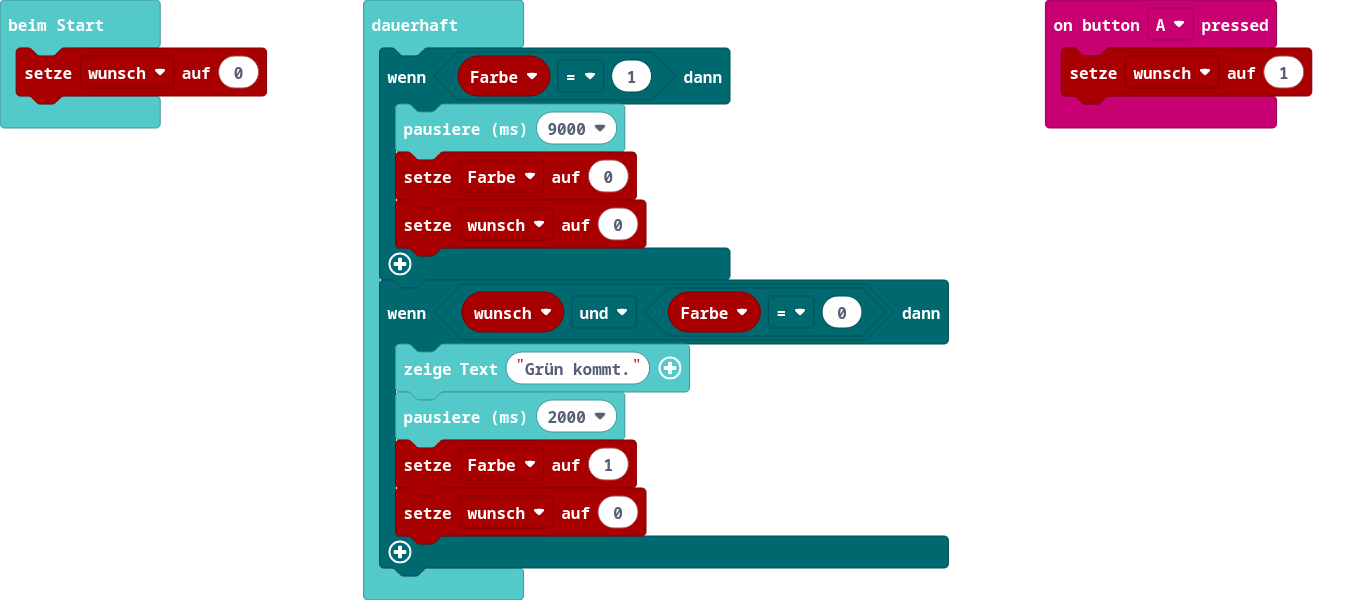
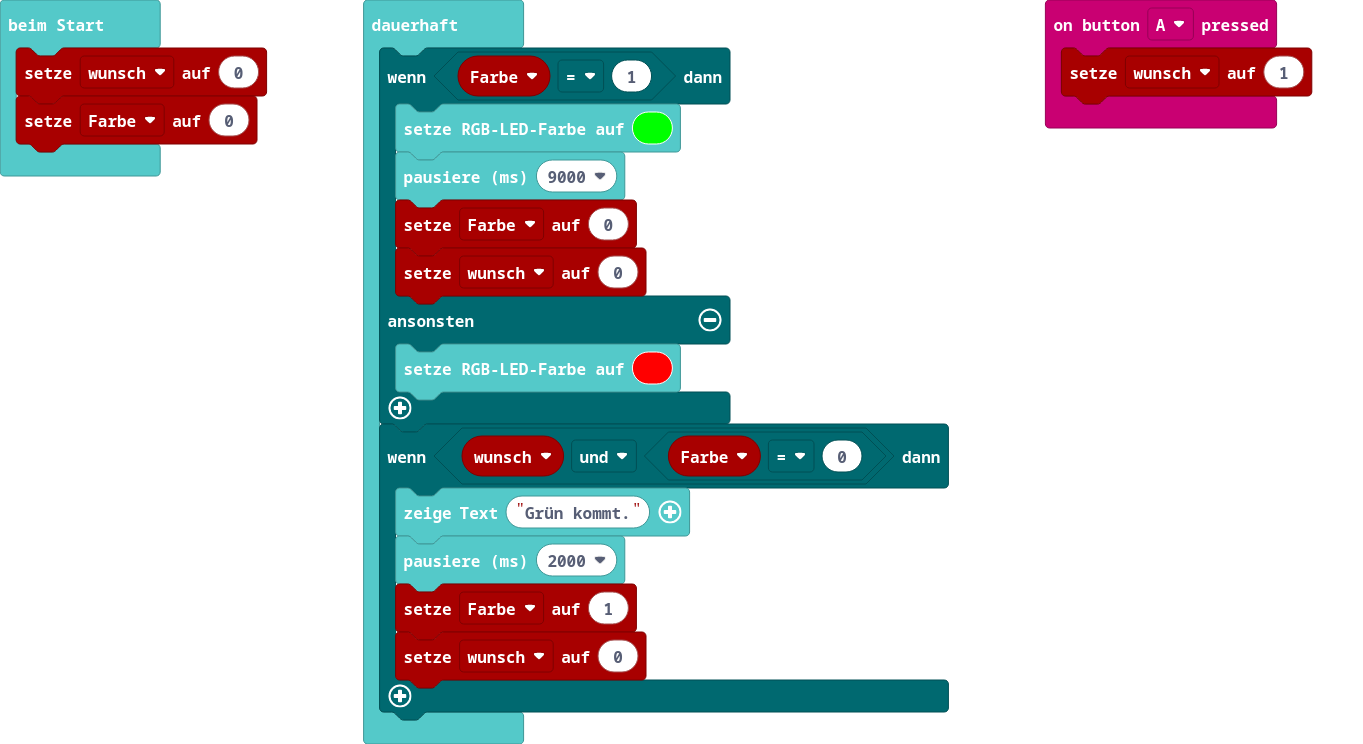
Aktualisiere main.blocks, main.ts

Changed region(s): [[0.2773, 0.03, 0.7087, 0.99], [0.7395, 0.03, 0.9861, 0.24], [0.0, 0.03, 0.2157, 0.24]]

diff --git a/main.ts b/main.ts
@@ -1,14 +1,17 @@
 input.onButtonPressed(Button.A, function () {
     wunsch = 1
 })
-let Farbe = 0
 let wunsch = 0
 wunsch = 0
+let Farbe = 0
 basic.forever(function () {
     if (Farbe == 1) {
+        basic.setLedColor(0x00ff00)
         basic.pause(9000)
         Farbe = 0
         wunsch = 0
+    } else {
+        basic.setLedColor(0xff0000)
     }
     if (wunsch && Farbe == 0) {
         basic.showString("Grün kommt.")
